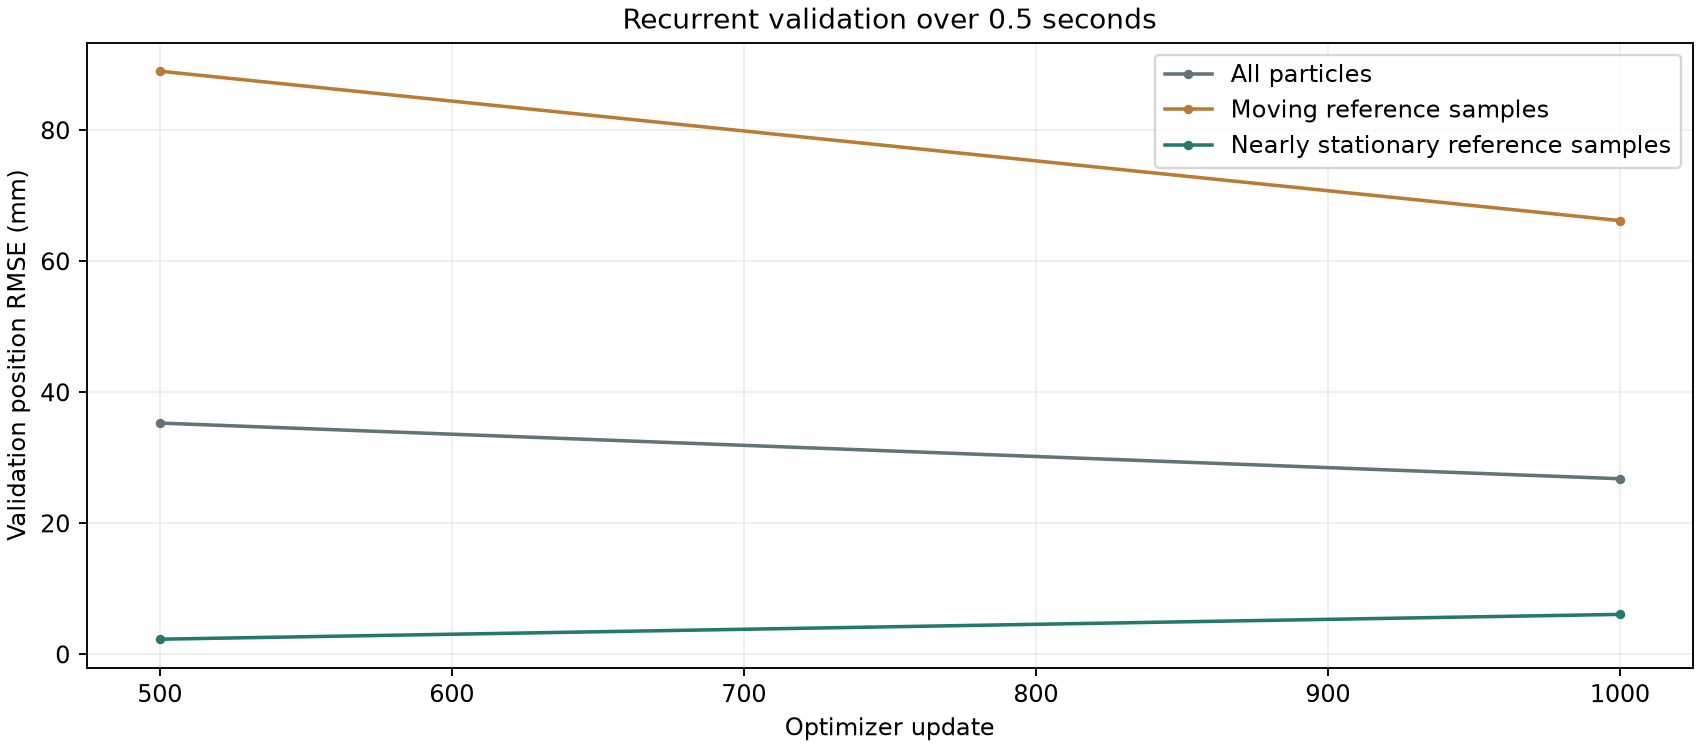
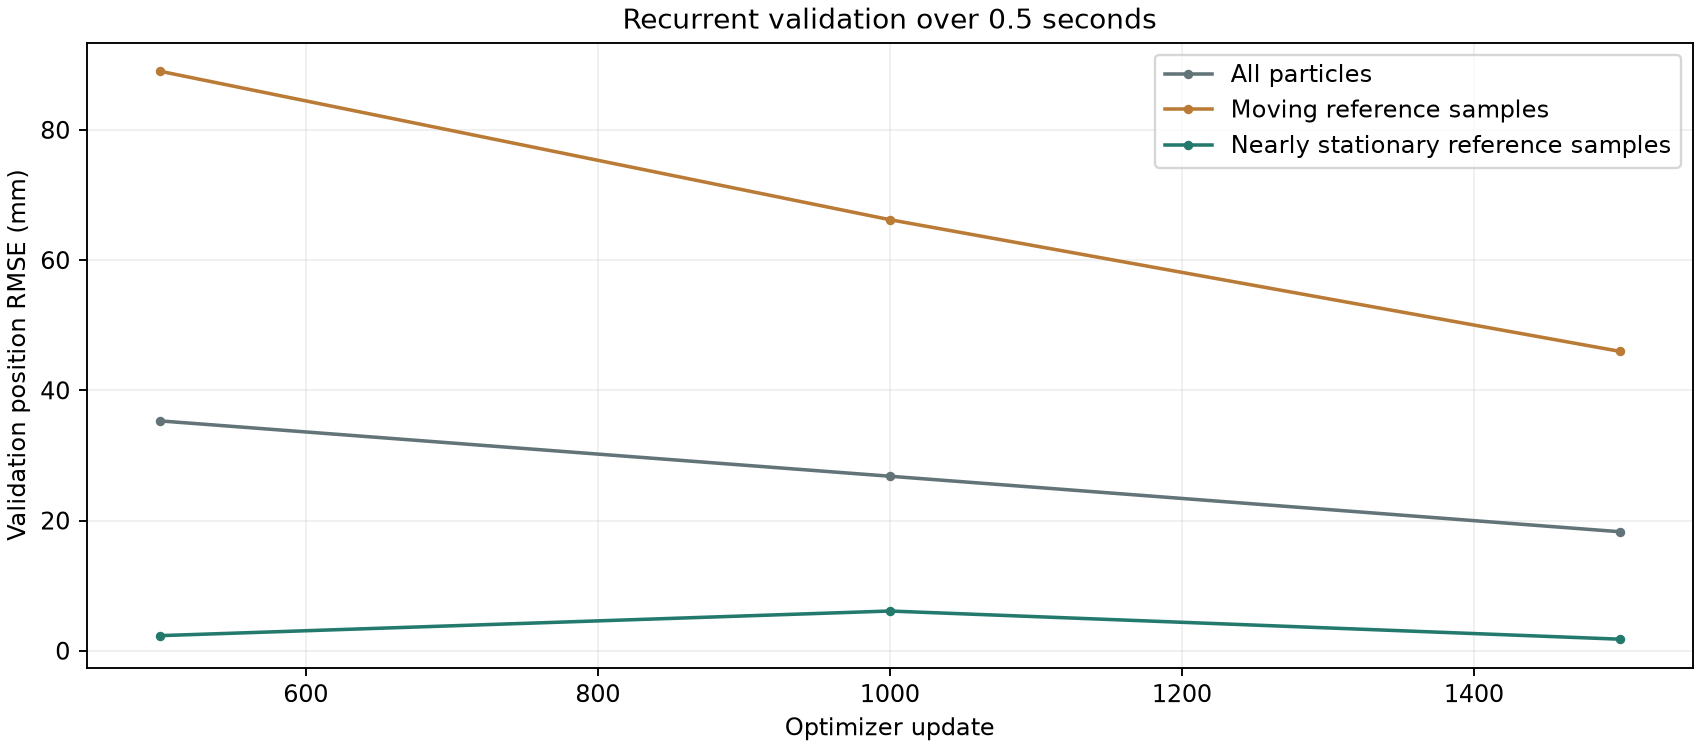
Update long-horizon Transolver progress (RUNNING)

diff --git a/transolver_long_horizon.html b/transolver_long_horizon.html
@@ -4,7 +4,7 @@
 <nav><a href="index.html">Methodology</a><a href="transolver.html">Transolver baseline</a><a href="gnn-v2.html">GNN v2</a></nav>
 <p class="tag">PARTICLE MOTION / RECURRENT TRAINING</p><h1>Transolver: 0.5-second training horizon</h1>
 <p class="lead">Reduce unwanted motion of settled material while retaining particle motion caused by the rigid box.</p>
-<div class="status"><strong>RUNNING</strong><p>Latest saved validation: update 1,000 / 10,000.</p><p><a href="https://us-west-2-aws.osmo.nvidia.com/workflows/particle-transolver-long-1">OSMO workflow</a> · <a href="https://dashboards.telemetry.dgxc.ngc.nvidia.com/d/workflow_resources/workflow-resources-v2?orgId=46&amp;var-datasource=ae6qyv87oh0cgd&amp;var-cluster=osmogroot-dgxc-k8s-forge-az41-prd1&amp;var-namespace=osmo-prod&amp;var-uuid=04e190c7cffc40b2&amp;from=now-1h&amp;to=now">GPU resource usage</a> · <a href="https://ovx-l40s-03.osmo.nvidia.com/dashboard/#/search?namespace=osmo-prod&amp;q=04e190c7cffc40b2">Task dashboard</a></p><p class="small">Updated 2026-10-20 04:03 UTC. Refresh this page for new checkpoint measurements.</p></div>
+<div class="status"><strong>RUNNING</strong><p>Latest saved validation: update 1,500 / 10,000.</p><p><a href="https://us-west-2-aws.osmo.nvidia.com/workflows/particle-transolver-long-1">OSMO workflow</a> · <a href="https://dashboards.telemetry.dgxc.ngc.nvidia.com/d/workflow_resources/workflow-resources-v2?orgId=46&amp;var-datasource=ae6qyv87oh0cgd&amp;var-cluster=osmogroot-dgxc-k8s-forge-az41-prd1&amp;var-namespace=osmo-prod&amp;var-uuid=04e190c7cffc40b2&amp;from=now-1h&amp;to=now">GPU resource usage</a> · <a href="https://ovx-l40s-03.osmo.nvidia.com/dashboard/#/search?namespace=osmo-prod&amp;q=04e190c7cffc40b2">Task dashboard</a></p><p class="small">Updated 2026-10-20 04:06 UTC. Refresh this page for new checkpoint measurements.</p></div>
 <h2>01 / Experiment</h2><table><tr><th>Setting</th><th>Baseline</th><th>New experiment</th></tr>
 <tr><td>Recurrent training horizon</td><td>4 steps / 0.08 s</td><td>25 steps / 0.5 s</td></tr>
 <tr><td>Loss</td><td>Moving samples weighted 5×; other samples 1×</td><td>Separate group means, equal weight</td></tr>
@@ -29,7 +29,7 @@ Backpropagate through the full sequence; no history reset or detached steps.</pr
 dt = 0.02 s</pre>
 <p>Both groups retain their reference position targets. Nearly stationary does not impose exactly zero motion. If a sequence contains only one group, that group receives the full loss. The grouping is based only on reference motion and does not freeze predicted particles.</p>
 <p>Each GPU trains on one sequence per update. Group normalization is applied within each sequence, then distributed training averages gradients. Recorded rigid-box pose and velocity are inputs at every step. Validation uses 32 fixed sequences at the same 25-step horizon. Checkpoint selection uses the square root of the average of the two pooled group mean squared position errors.</p>
-<h2>03 / Training progress</h2><table><tr><th>Validation measure at 25 steps</th><th>Latest value</th></tr><tr><td>All particle-time samples</td><td>26.802 mm</td></tr><tr><td>Moving reference samples</td><td>66.205 mm</td></tr><tr><td>Nearly stationary reference samples</td><td>6.100 mm</td></tr><tr><td>Balanced checkpoint-selection score</td><td>47.012 mm</td></tr></table><p class="small">Peak allocated PyTorch GPU memory on rank 0: 2.30 GiB. This excludes other processes and allocations outside PyTorch.</p><img src="assets/transolver-long-horizon/training.png" alt="Validation position errors over training updates">
+<h2>03 / Training progress</h2><table><tr><th>Validation measure at 25 steps</th><th>Latest value</th></tr><tr><td>All particle-time samples</td><td>18.276 mm</td></tr><tr><td>Moving reference samples</td><td>45.980 mm</td></tr><tr><td>Nearly stationary reference samples</td><td>1.772 mm</td></tr><tr><td>Balanced checkpoint-selection score</td><td>32.537 mm</td></tr></table><p class="small">Peak allocated PyTorch GPU memory on rank 0: 2.30 GiB. This excludes other processes and allocations outside PyTorch.</p><img src="assets/transolver-long-horizon/training.png" alt="Validation position errors over training updates">
 <p class="small">Do not compare these 25-step validation errors directly with the baseline's four-step validation error. Compare both models at the same evaluation horizon.</p>
 <h2>04 / Matched five-second evaluation</h2><p>Pending. Evaluate the selected checkpoint on the same twelve five-second trajectories as the baseline. Particle predictions are recurrent; recorded box pose and velocity are supplied at each step.</p>
 <h2 id="videos">05 / Prediction videos</h2><p>Scheduled after training: five-second Newton RTX comparisons for continuous dragging and pushing. Video rendering runs locally after the cloud evaluation finishes.</p><p class="small">Left: MPM reference particles. Right: recurrent Transolver particles from the selected long-horizon checkpoint. Both views replay the same recorded box motion. Particle predictions are not reset to MPM. Brown particles, gray box, lighting, camera, and display radius match the baseline videos. This is particle prediction, not force-estimator-driven box motion.</p>
